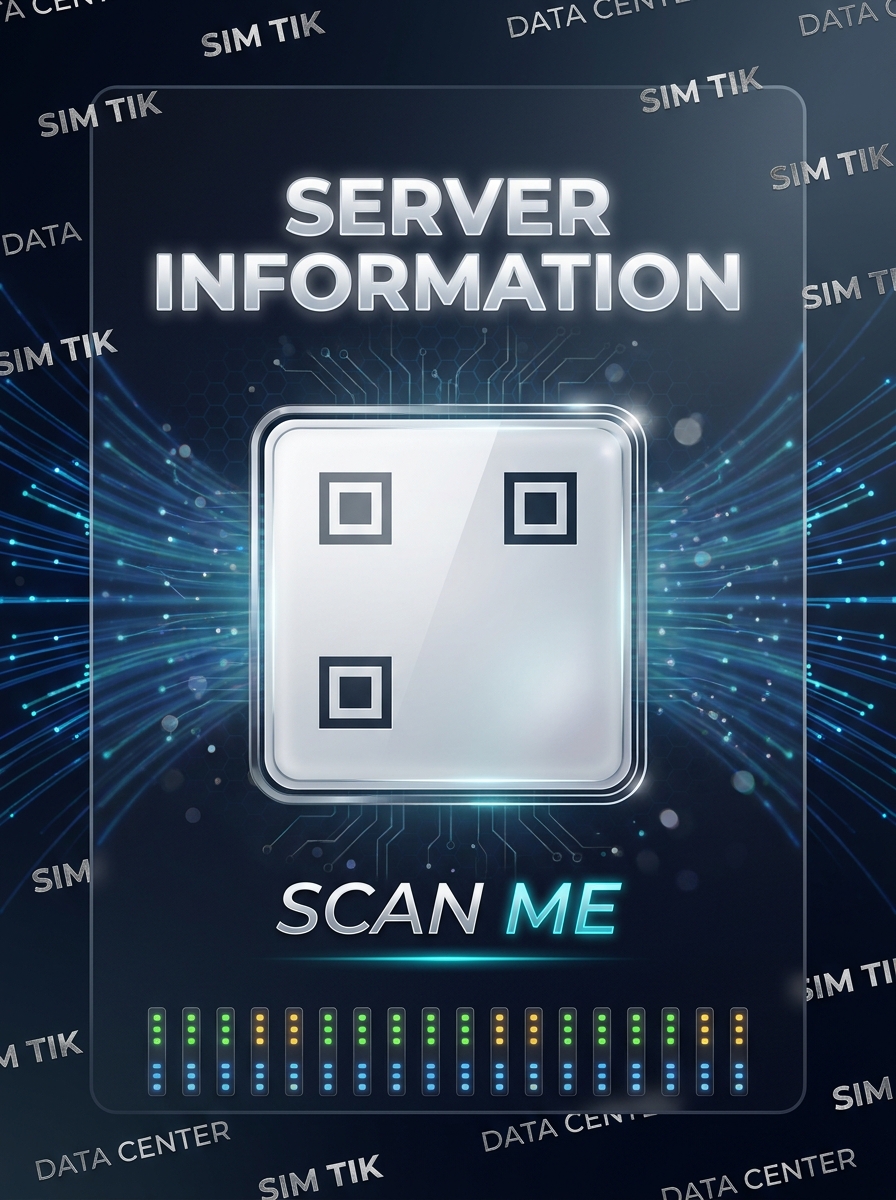
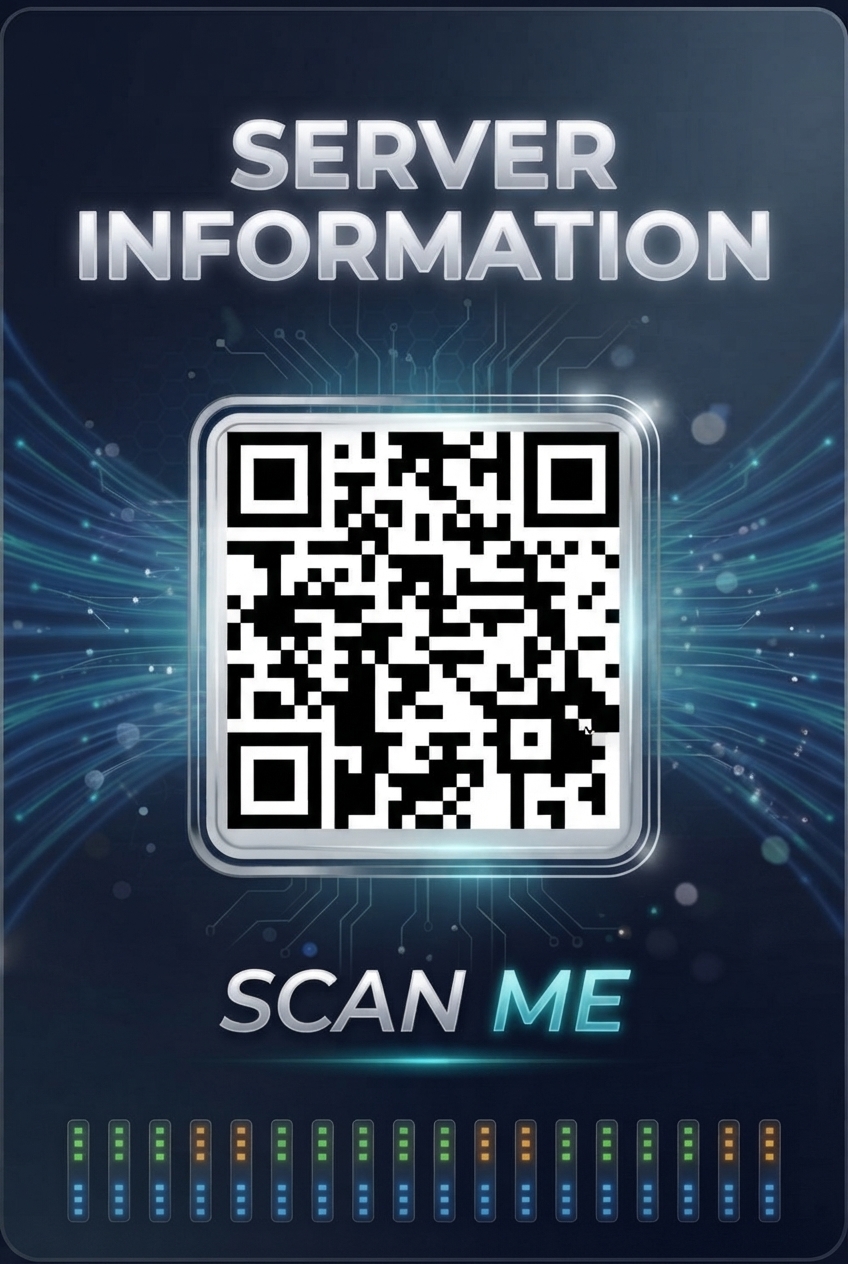
perbaikan ukuran template qrcode

diff --git a/app/Http/Controllers/QrCodeController.php b/app/Http/Controllers/QrCodeController.php
@@ -96,13 +96,9 @@ class QrCodeController extends Controller
             $bgWidth = $background->width();
             $bgHeight = $background->height();
 
-            // ======== SESUAIKAN 3 ANGKA INI SAMPAI QR PAS DI KOTAK PUTIH ========
-    
-        $qrSizeRatio = 0.37;       // pas dengan lebar kartu (358px dari 896px lebar background)
-        $offsetXPercent = 0;       // kartu sudah center horizontal, tidak perlu digeser
-        $offsetYPercent = 0;       // kartu sudah center vertikal, tidak perlu digeser
-// ======================================================================
-            // ======================================================================
+            $qrSizeRatio = 0.3995;    // TETAP (ukuran sudah benar ~160px)
+            $offsetXPercent = 0;      // TETAP (center horizontal)
+            $offsetYPercent = 0.65;   // GESER KE BAWAH (65% dari tinggi kartu)
 
             $qrFinalSize = (int) ($bgWidth * $qrSizeRatio);
             $offsetX = (int) ($bgWidth * $offsetXPercent);
